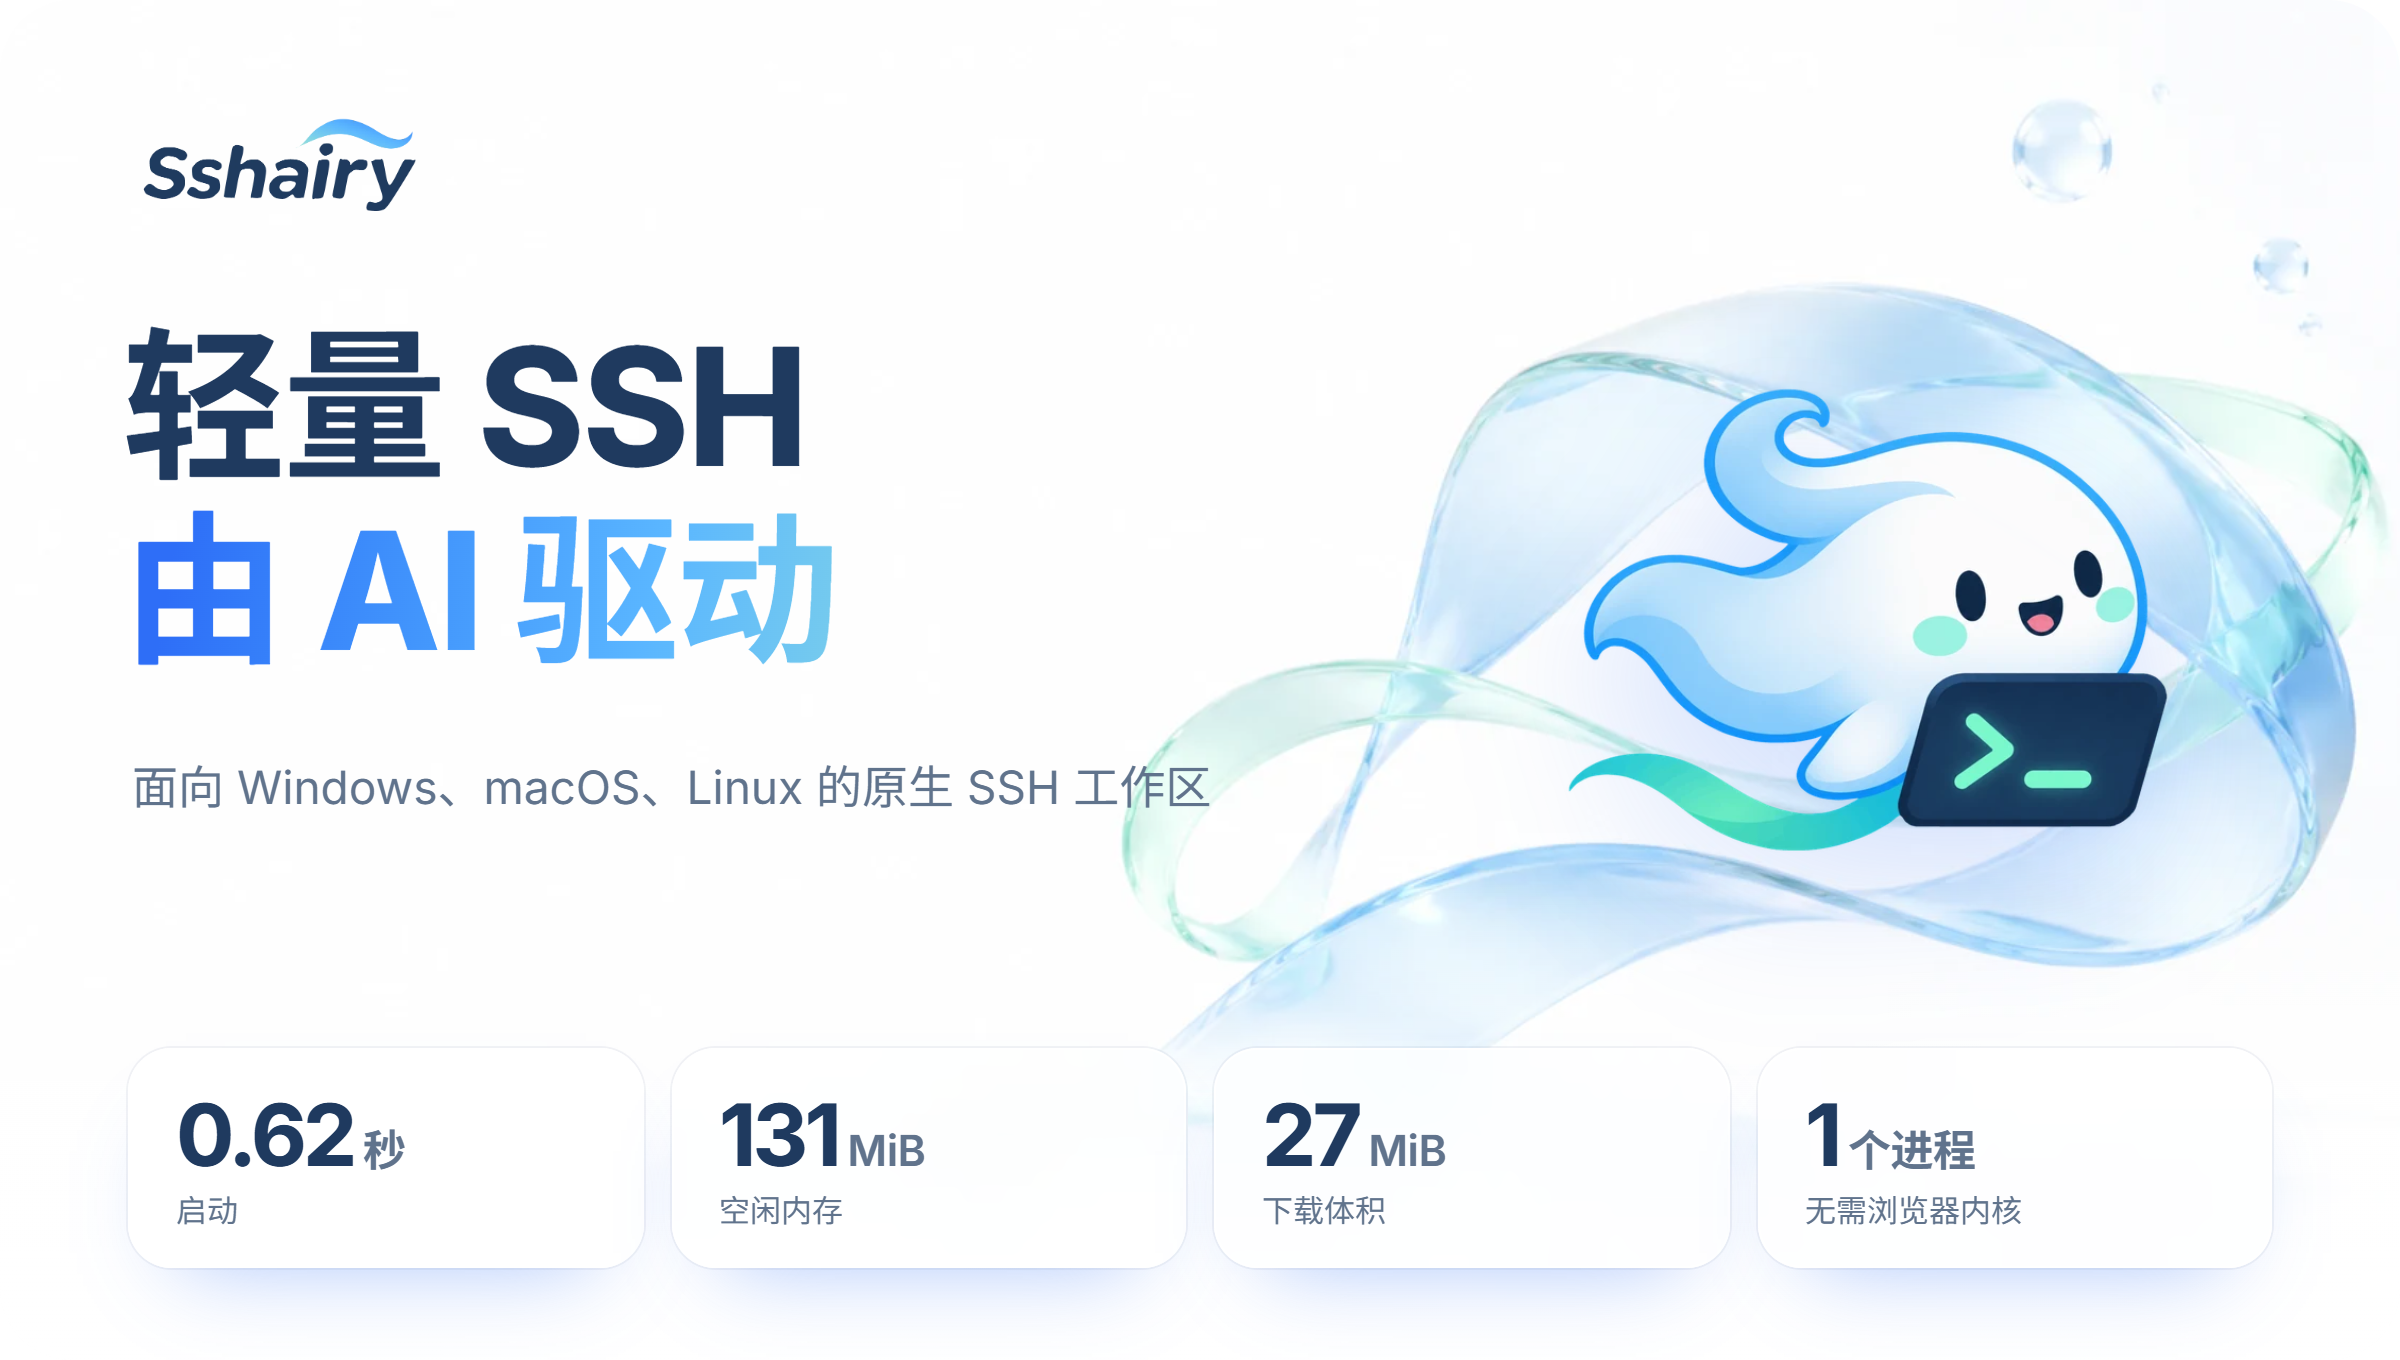
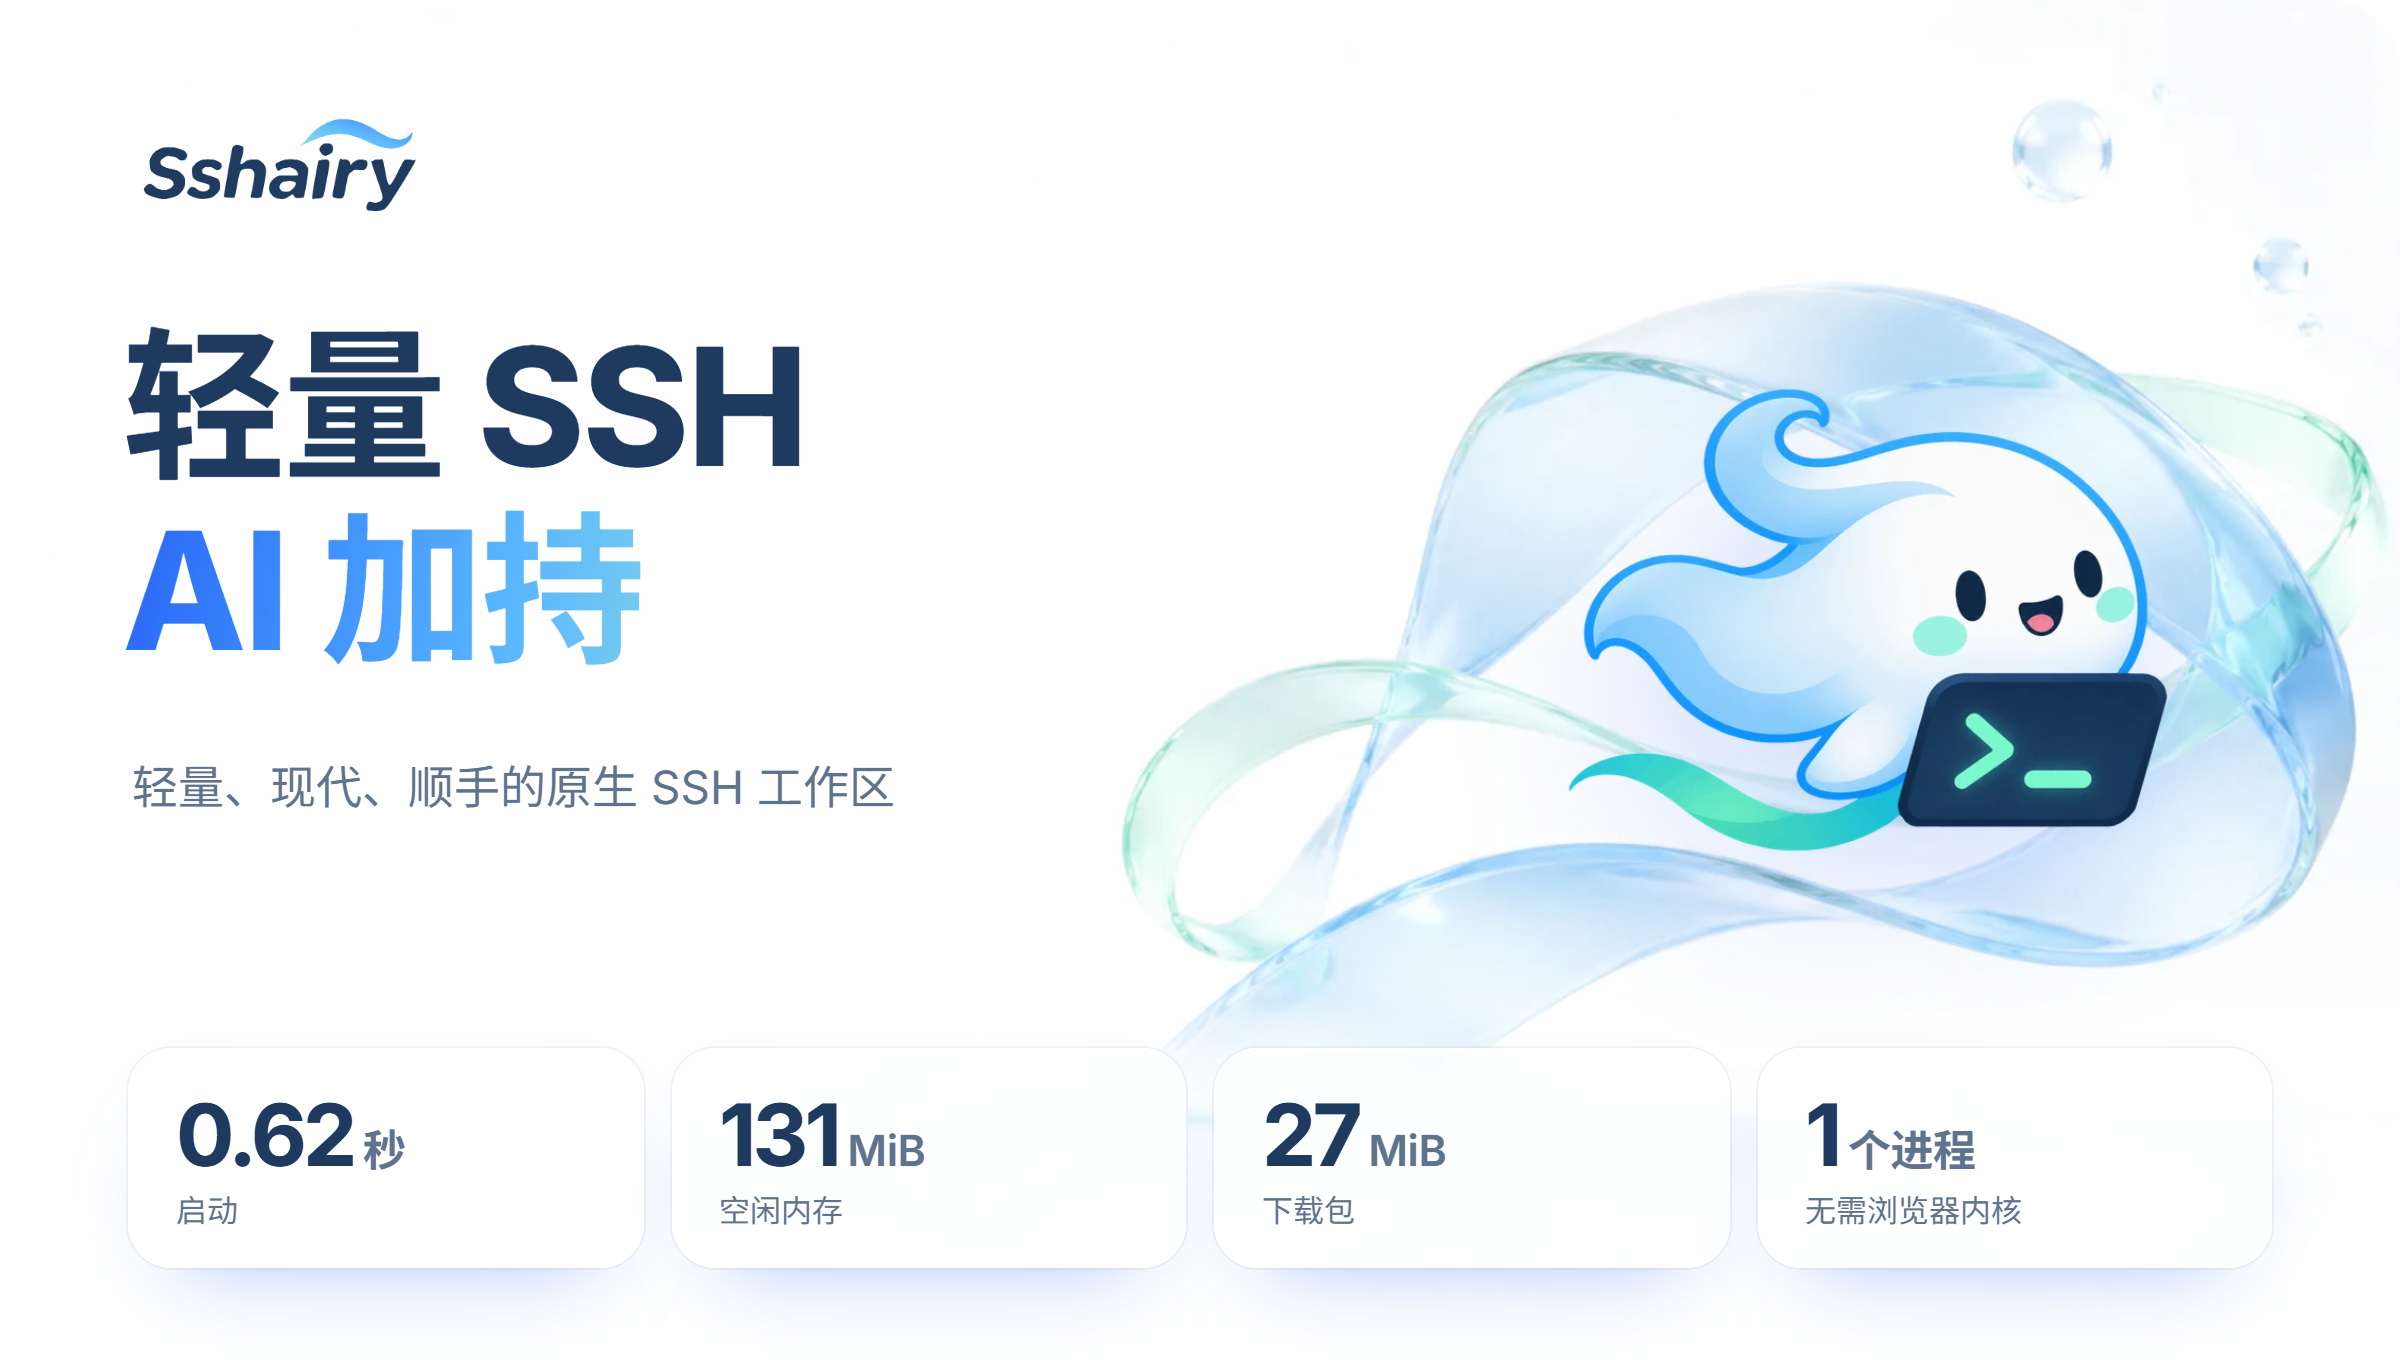
docs: sharpen product copy around AI, lightness and interaction
Replace literal translations in the Chinese README and site copy with natural wording, and make both languages foreground AI in the SSH workflow, the lightweight footprint, the modern native interface and fluid tab, split and panel interactions. Re-render the affected Chinese cover and footprint spreads.

Changed region(s): [[0.0312, 0.3706, 0.3438, 0.4941], [0.0312, 0.5559, 0.5, 0.6176], [0.5312, 0.8647, 0.5938, 0.8956]]

diff --git a/site/site.js b/site/site.js
@@ -9,7 +9,7 @@
       title: 'Sshairy · Lightweight SSH. Powered by AI.',
       nTour: 'Tour', nPerf: 'Performance', nDocs: 'Docs', nGet: 'Download',
       h1a: 'Lightweight SSH.', h1b: 'Powered by AI.',
-      lede: 'Terminals, SFTP, tunnels and server monitoring in one clean native window, with an assistant beside the prompt when you want one.',
+      lede: 'Terminals, SFTP, tunnels and server monitoring in one modern native window with clean, fluid tabs, splits and panels; AI is part of the workflow.',
       dlWin: 'Download for Windows', src: 'View source',
       fine: 'Preview 0.1.0 · portable ZIP, 27 MiB · macOS and Linux build from source',
       stats: [['0.62', 's', 'to open'], ['131', 'MiB', 'at idle'], ['27', 'MiB', 'to download'], ['1', 'process', 'no browser engine']],
@@ -21,10 +21,10 @@
         ['files', 'Move files', 'Dual-pane SFTP, transfer queues, resumable transfers, conflict handling and external editing.'],
         ['log', 'Keep watch', 'CPU, memory, disk and processes over SSH, with nothing to install on the server.'],
         ['route', 'Reach further', 'Local, remote and dynamic port forwarding. Snippets and 1,453 shell completion specs.'],
-        ['shield', 'Stay in control', 'Host-key verification, OS-backed credential storage, English and Chinese, custom shortcuts.'],
+        ['shield', 'Stay in control', 'Modern native interface with fluid tabs, splits and panels; host-key verification, OS-backed credential storage, English and Chinese, custom shortcuts.'],
       ],
       airyH: 'Meet <span class="k-grad">Airy</span>.',
-      airyP: 'An assistant beside your terminal, with 39 tools for hosts, remote files, commands, sessions, layouts and settings. Bring your own Anthropic or OpenAI-compatible model.',
+      airyP: 'The AI assistant beside your terminal, with 39 tools for hosts, remote files, commands, sessions, layouts and settings. Bring your own Anthropic or OpenAI-compatible model.',
       ways: [['Agent', 'Describe a task and Airy works through it step by step.'], ['Inline commands', 'A plain-language request becomes a command you can edit before it runs.'], ['AI completion', 'Suggestions as you type, next to shell specs and your history.']],
       modes: ['Observe', 'Confirm', 'Auto confirm', 'Full auto'],
       hints: ['Read-only tools, and you approve each read.', 'You approve every read and every command. The default.', 'A separate model reviews each action and asks you when unsure.', 'Reads, runs and shares results without asking.'],
@@ -46,13 +46,13 @@
       note: 'Interface panels on this page are illustrations with fictional hosts. Built with Flutter.',
     },
     zh: {
-      title: 'Sshairy · 轻量 SSH，由 AI 驱动',
+      title: 'Sshairy · 轻量 SSH，AI 加持',
       nTour: '导览', nPerf: '性能', nDocs: '文档', nGet: '下载',
-      h1a: '轻量 SSH。', h1b: '由 AI 驱动。',
-      lede: '终端、SFTP、端口转发、服务器监控，收进同一个清爽的原生窗口；需要时，提示符旁边还有一个助手。',
+      h1a: '轻量 SSH。', h1b: 'AI 加持。',
+      lede: '终端、SFTP、端口转发和服务器监控收进同一个现代原生窗口：界面清爽，分屏、标签与面板切换顺手；AI 融进日常 SSH 工作流。',
       dlWin: '下载 Windows 版', src: '查看源码',
       fine: '预览版 0.1.0 · 便携 ZIP，27 MiB · macOS 与 Linux 从源码构建',
-      stats: [['0.62', '秒', '启动'], ['131', 'MiB', '空闲内存'], ['27', 'MiB', '下载体积'], ['1', '个进程', '无需浏览器内核']],
+      stats: [['0.62', '秒', '启动'], ['131', 'MiB', '空闲内存'], ['27', 'MiB', '下载包'], ['1', '个进程', '无需浏览器内核']],
       tourH: '所有服务器，一个窗口。',
       tabs: ['终端', '主机', '文件', '监控', '补全', '行内 AI', '命令面板', '端口转发'],
       feats: [
@@ -60,11 +60,11 @@
         ['term', '终端', '多标签、拖放分屏、本地 Shell、搜索、重连与布局恢复。'],
         ['files', '文件', '双栏 SFTP、传输队列、断点续传、冲突处理与外部编辑器。'],
         ['log', '监控', '通过 SSH 查看 CPU、内存、磁盘与进程，服务器无需安装任何东西。'],
-        ['route', '工具', '本地、远程、动态端口转发；命令片段，1,453 个 Shell 补全规格。'],
-        ['shield', '体验', '主机密钥校验、系统凭据存储、中英界面与自定义快捷键。'],
+        ['route', '工具', '本地、远程、动态端口转发；命令片段和 1,453 个 Shell 补全规格。'],
+        ['shield', '体验', '现代原生界面，分屏、标签与面板切换顺手；主机密钥校验、系统凭据存储、中英文界面与自定义快捷键。'],
       ],
       airyH: '认识 <span class="k-grad">Airy</span>。',
-      airyP: '就在终端旁边，带着 39 个工具管理主机、远端文件、命令、会话、布局与设置。接入你自己的 Anthropic 或 OpenAI 兼容模型。',
+      airyP: 'Airy 就在终端旁边，是一位 AI 助手，配备 39 个工具，可管理主机、远端文件、命令、会话、布局与设置。接入你自己的 Anthropic 或 OpenAI 兼容模型。',
       ways: [['Agent', '说出任务，Airy 一步步处理。'], ['行内命令', '一句自然语言变成命令，运行前可以修改。'], ['AI 补全', '边输入边给建议，和 Shell 规格、命令历史排在一起。']],
       modes: ['观察', '确认', '自动确认', '全自动'],
       hints: ['只用只读工具，每次读取由你批准。', '读取和命令都由你批准。默认模式。', '由另一个模型审核每个操作，拿不准时再问你。', '读取、执行、使用结果，全程不再询问。'],
@@ -72,17 +72,17 @@
       names: ['冰蓝薄荷', '薄荷绿', '紫罗兰', '落日橙', '深海蓝', '樱花粉'],
       perfH: '打开就用。',
       perfP: '在 Windows 上与另外九款 SSH 客户端实测：五次热启动取中位数，内存统计整个进程树。',
-      sec: '秒', startup: '启动', memory: '空闲内存', download: '下载体积', unpacked: '解压后',
+      sec: '秒', startup: '启动', memory: '空闲内存', download: '下载大小', unpacked: '解压后',
       parts: ['Shell 补全规格', 'Flutter 引擎', 'AOT 应用代码', '品牌素材', '其余文件'],
       pills: ['单个应用进程', '无 Chromium', '无 WebView'],
-      tableS: '全部数据', cols: ['客户端', '启动', '空闲内存', '下载体积'], method: '测量方法、版本与来源',
+      tableS: '全部数据', cols: ['客户端', '启动', '空闲内存', '下载大小'], method: '测量方法、版本与来源',
       filmH: '57 秒，看完 Sshairy。',
       getH: '获取 Sshairy。', winP: '64 位 Windows 便携 ZIP。解压后运行 sshairy.exe。', winB: '下载 · 27 MiB',
       srcP: '使用 Flutter 3.47.9 从源码构建。', srcB: '构建步骤', copy: '复制', copied: '已复制', or: '# 或 macos、linux',
       tested: '预览版目前只在 Windows 上完成实测。',
       docsH: '文档。', read: '阅读', soon: '即将补充',
       docs: [['快速开始', '安装、添加第一台主机、打开会话。'], ['从源码构建', '工具链、命令与 Windows 打包。'], ['基准测试', '启动、内存与体积的测量方法。'], ['使用指南', 'Airy、权限、主题与快捷键。']],
-      foot: '轻量 SSH，由 AI 驱动。', rel: '发布', issues: '问题反馈', buddy: '换个主题',
+      foot: '轻量 SSH，AI 加持。', rel: '发布', issues: '问题反馈', buddy: '换个主题',
       note: '本页界面为示意图，主机均为虚构。使用 Flutter 构建。',
     },
   };

diff --git a/tool/readme/spreads.html b/tool/readme/spreads.html
@@ -217,8 +217,8 @@ const TEXT = {
     pills: ['One app process', 'No Chromium', 'No WebView'],
   },
   zh: {
-    h1a: '轻量 SSH', h1b: '由 AI 驱动', coverLede: '面向 Windows、macOS、Linux 的原生 SSH 工作区',
-    stats: [['0.62', '秒', '启动'], ['131', 'MiB', '空闲内存'], ['27', 'MiB', '下载体积'], ['1', '个进程', '无需浏览器内核']],
+    h1a: '轻量 SSH', h1b: 'AI 加持', coverLede: '轻量、现代、顺手的原生 SSH 工作区',
+    stats: [['0.62', '秒', '启动'], ['131', 'MiB', '空闲内存'], ['27', 'MiB', '下载包'], ['1', '个进程', '无需浏览器内核']],
     workspace: '所有服务器，<br>一个窗口', workspaceLede: '标签、分屏、文件与实时监控，并排工作',
     features: '常用的，都在',
     fHosts: '井井有条的主机库', fHostsP: '分组、标签、置顶，随手搜索',
@@ -233,7 +233,7 @@ const TEXT = {
     themes: '六种配色，换个心情', themesLede: '浅色与深色，各有一只 Airy',
     names: ['冰蓝薄荷', '薄荷绿', '紫罗兰', '落日橙', '深海蓝', '樱花粉'],
     perf: '打开就用', sec: '秒', startup: '启动', memory: '空闲内存',
-    foot: '轻装上阵', download: '下载体积', unpacked: '解压后',
+    foot: '轻装上阵', download: '下载大小', unpacked: '解压后',
     parts: ['Shell 补全规格', 'Flutter 引擎', 'AOT 应用代码', '品牌素材', '其余文件'],
     pills: ['单个应用进程', '无 Chromium', '无 WebView'],
   },

diff --git a/README.md b/README.md
@@ -11,9 +11,9 @@
 
 </div>
 
-**Sshairy** is a lightweight SSH client for **Windows, macOS and Linux**. Terminals, SFTP, tunnels and server monitoring share one clean native window, built with Dart and Flutter.
+**Sshairy** is a lightweight SSH client for **Windows, macOS and Linux**. Terminals, SFTP, tunnels and server monitoring share one modern native window with clean, fluid tabs, splits and panels, built with Dart and Flutter.
 
-It is a complete SSH client first, with AI there when you want it. Stay in the terminal, hand Airy a task, or turn a sentence into a command. No Chromium, no WebView, no browser runtime to carry around.
+AI is part of the SSH workflow: hand Airy a task or turn a sentence into a command, and it reads context, checks servers and carries out the work. Lightweight, modern and easy to use, with no Chromium, no WebView and no browser runtime to carry around.
 
 <img src="media/preview.gif" alt="A short tour of Sshairy: fast startup, one window for every server, completion with context, Airy commands and approvals, themes and measured performance." width="100%">
 
@@ -30,11 +30,11 @@ It is a complete SSH client first, with AI there when you want it. Stay in the t
 | **Move files** | Dual-pane SFTP, transfer queues, resumable file transfers, conflict handling and external editing. |
 | **Keep watch** | CPU, memory, disk and process monitoring over SSH, with nothing to install on the server. |
 | **Reach further** | Local, remote and dynamic port forwarding. Saved snippets and 1,453 shell completion specs. |
-| **Stay in control** | Host-key verification and OS-backed credential storage. English and Chinese interfaces, customizable shortcuts. |
+| **Stay in control** | Modern native interface with fluid tabs, splits and panels. Host-key verification, OS-backed credential storage, English and Chinese interfaces, customizable shortcuts. |
 
 ## Airy
 
-Airy sits beside your terminal with **39 tools** for hosts, remote files, commands, sessions, layouts and settings. Bring your own Anthropic or OpenAI-compatible model and decide how much to delegate.
+Airy is the AI assistant beside your terminal, with **39 tools** for hosts, remote files, commands, sessions, layouts and settings. Bring your own Anthropic or OpenAI-compatible model and decide how much to delegate.
 
 - **Agent** — describe a task and Airy works through it step by step.
 - **Inline commands** — a plain-language request becomes a command you can edit before it runs.
